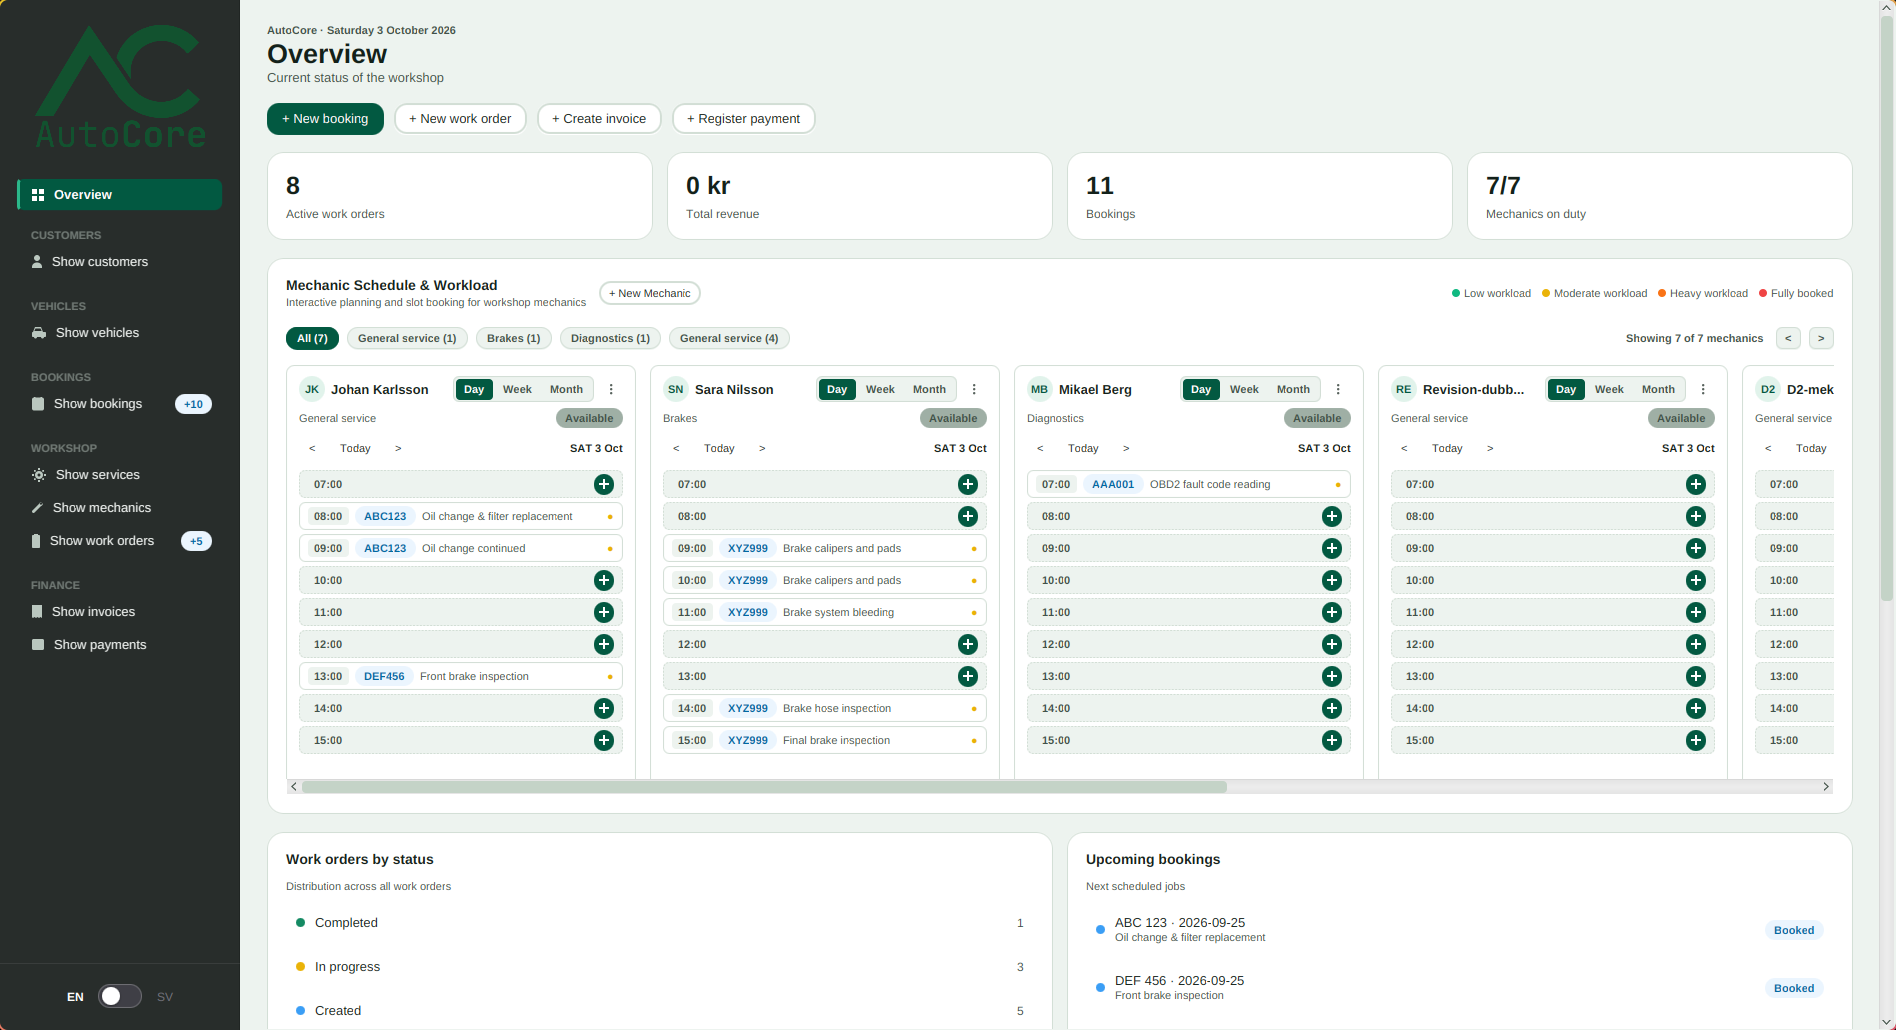
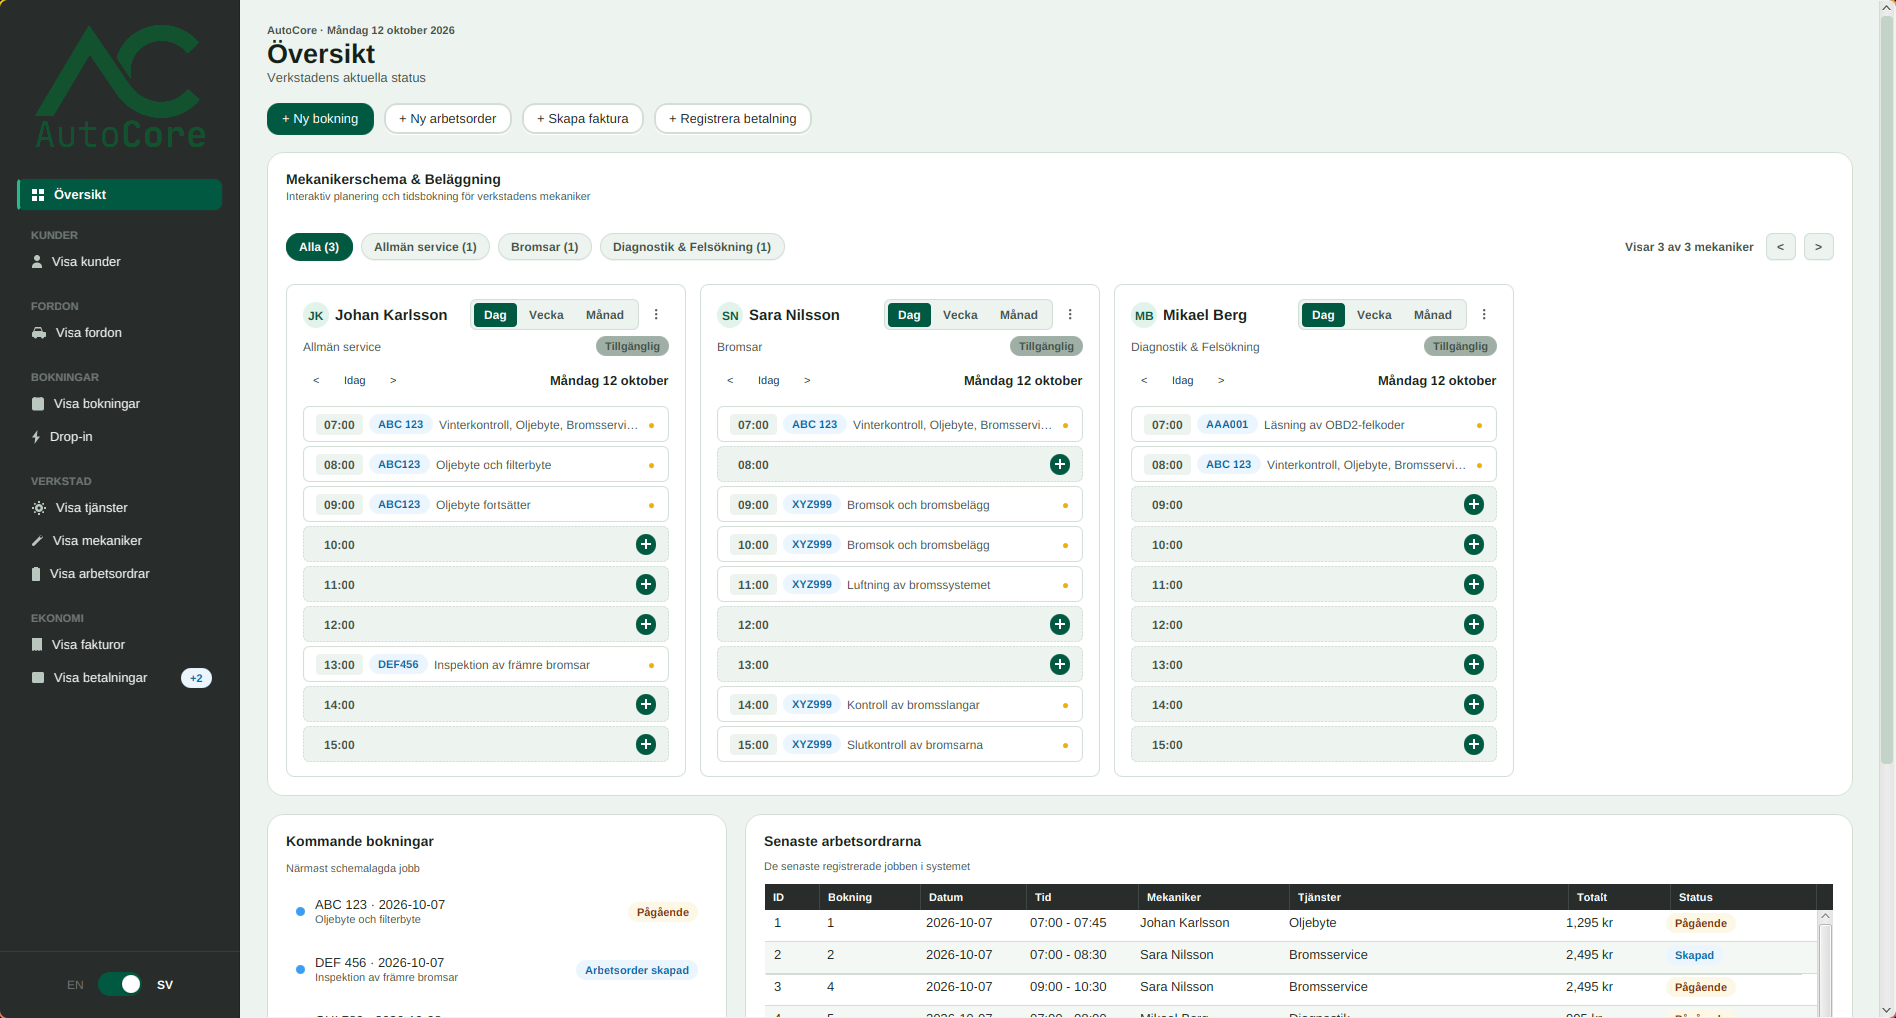
docs: README med 3.0-funktionerna och nya skärmbilder
README beskriver fortfarande 2.5. Servicepaket, arbetsordertyper, utkast och
drop-in saknades i listan över vad systemet gör.

Rättat på vägen: arkitekturträdet visade resources/ som syskon till src/, men
den ligger inuti. Platshållarblocket med git checkout din-gren bort. Meningen om
GDK_BACKEND rättad, start.sh sätter den själv på Wayland. Sista meningen i
Språk bort, den lovade en kvalitetskontroll som togs bort 5 oktober.

Fyra skärmbilder till: fakturan med förhandsgranskningen, drop-in, och
schemalägg bokning. Översiktsbilden utbytt mot en färskare. Nytt avsnitt om
fakturering.

diff --git a/README.md b/README.md
@@ -6,9 +6,12 @@ Ett verkstadssystem för Wigell Group. Kunder, fordon, bokningar, arbetsordrar, 
 
 - Kunder och fordon, med ägarkoppling.
 - Bokningar med en eller flera tjänster, tidsberäkning och skydd mot överlapp.
+- Servicepaket: färdiga buntar av tjänster att utgå från i en bokning.
 - Mekaniker med specialisering, schema och belastning.
 - Tjänstekatalog med pris och beräknad tid.
-- Arbetsordrar med statusflöde från skapad till klar.
+- Arbetsordrar i tre typer: standard, reklamation och internt arbete.
+- Arbetsordrar som utkast, att fylla på efter hand, och drop-in utan bokning.
+- Arbetsordrar med statusflöde från skapad till klar, och spärrar mot orimliga byten.
 - Fakturor med flera rader, rabatt och moms.
 - Betalning via kort, Swish eller kontant.
 
@@ -20,37 +23,31 @@ Siffrorna i menyn visar vad som väntar på hantering. Bilden är ett exempel.
 
 ## Bygg och kör
 
-Projektet använder Java 8 med JavaFX. Starta appen med `./start.sh`, eller kör
-`Main.java` från IntelliJ. Konsolversionen startar du med `./start.sh ConsoleApp`.
-```bash
-git checkout din-gren
-git merge develop
-```
+Projektet använder Java 8 med JavaFX. Starta appen med `./start.sh`, eller kör `Main.java` från IntelliJ. Konsolversionen startar du med `./start.sh ConsoleApp`.
 
 ### Får du "No suitable driver found for jdbc:sqlite"?
 
 Drivrutinen ligger i `.idea/libraries/` och följer med i giten. Felet betyder att IntelliJ kör en gammal projektmodell: välj **File → Reload All from Disk**, eller stäng och öppna projektet. Går det inte, lägg till `WigellAutoCore/autocore/lib/sqlite-jdbc-3.53.4.0.jar` under **File → Project Structure → Modules → Dependencies**. `./start.sh` behöver inget av det.
 
-Körningen behöver en bildskärm. Saknas den, sätt `GDK_BACKEND=x11` och en `DISPLAY`, annars stannar JavaFX.
+Körningen behöver en bildskärm. På Wayland sätter `start.sh` `GDK_BACKEND=x11` själv, eftersom JavaFX 8 annars kraschar i GTK.
 
 ## Arkitektur
 
 ```
 WigellAutoCore/autocore/
 ├── lib/            sqlite-jdbc, json
-├── src/
-│   ├── Main.java           JavaFX-appen
-│   ├── ConsoleApp.java     Konsolversionen
-│   └── com/wac/autocore/
-│       ├── data/           Databasen och demodata
-│       ├── model/          Domänmodeller
-│       ├── repository/     Läsning och skrivning mot SQLite
-│       ├── service/        Affärslogik, GarageSystem som fasad
-│       ├── seed/           Ordlista för demodata, svenska och engelska
-│       └── ui/             Gränssnittet: dialoger, vyer, komponenter,
-│                           i18n och teman
-└── resources/
-    └── com/wac/autocore/
+└── src/
+    ├── Main.java           JavaFX-appen
+    ├── ConsoleApp.java     Konsolversionen
+    ├── com/wac/autocore/
+    │   ├── data/           Databasen och demodata
+    │   ├── model/          Domänmodeller
+    │   ├── repository/     Läsning och skrivning mot SQLite
+    │   ├── service/        Affärslogik, GarageSystem som fasad
+    │   ├── seed/           Ordlista för demodata, svenska och engelska
+    │   └── ui/             Gränssnittet: dialoger, vyer, komponenter,
+    │                       i18n och teman
+    └── resources/com/wac/autocore/
         ├── i18n/           sv.json och en.json
         ├── seed/           Demodata per språk
         └── theme/          CSS och temat Emerald
@@ -64,15 +61,33 @@ En bokning registreras som `BOOKED` och skapar ingen arbetsorder. Arbetsordern s
 
 Bokningsdialogen visar lediga och upptagna timmar per mekaniker. Tjänsternas tider summeras, så en bokning som sträcker sig över flera timmar kan inte läggas ovanpå en annan. Avbokar du en bokning frigörs tiderna direkt.
 
+![Schemalägg bokning](WigellAutoCore/docs/autocore-booking-dialog.png)
+
+Paket, lediga tider och beräknad arbetstid i samma dialog.
+
+Ett servicepaket är en färdig bunt av tjänster. Väljer man ett paket i bokningen läggs tjänsterna in som bokningens egna, så att paketet kan ändras senare utan att gamla bokningar påverkas.
+
+En arbetsorder har en typ: standard, reklamation eller internt arbete. En reklamation skapas ur en slutförd order och pekar tillbaka på den, och kunden debiteras normalt inte. En order som ännu inte är klar kan ligga som utkast — fordon och beskrivning räcker — och fyllas på med tjänster, mekaniker och planerat datum efter hand. En drop-in skapas direkt, utan bokning.
+
+![Drop-in](WigellAutoCore/docs/autocore-dropin.png)
+
+Drop-in registreras utan bokning.
+
 Mekanikerns behörighet hänger på en nyckel. Tjänsten anger vilken specialisering den kräver, och en tjänst utan krav kan utföras av alla.
 
 ### Schemat
 
 Översikten har en Kanban-tavla per mekaniker med dag, vecka och månad. Dagen visar nio timmar mellan 07:00 och 16:00, lediga timmar går att boka direkt, och ett klick på en bokad timme fäller ut detaljer om fordon, kund och arbetsorder. Veckovyn färgkodar belastningen i fyra steg.
 
+### Fakturering
+
+Fakturan byggs på de tjänster som markerats som utförda, med priset som gällde när arbetet gjordes. Rabatt och moms räknas per rad, och fakturan går att granska innan den skickas.
+
+![Faktura](WigellAutoCore/docs/autocore-invoice.png)
+
 ### Språk
 
-Svenska och engelska byts med knappen i menyn, utan omstart. Datum, statusord och valutor följer språket. Kvalitetskontrollen kräver att språkfilerna har exakt samma uppsättning nycklar.
+Svenska och engelska byts med knappen i menyn, utan omstart. Datum, statusord och valutor följer språket.
 
 ## Team
 
